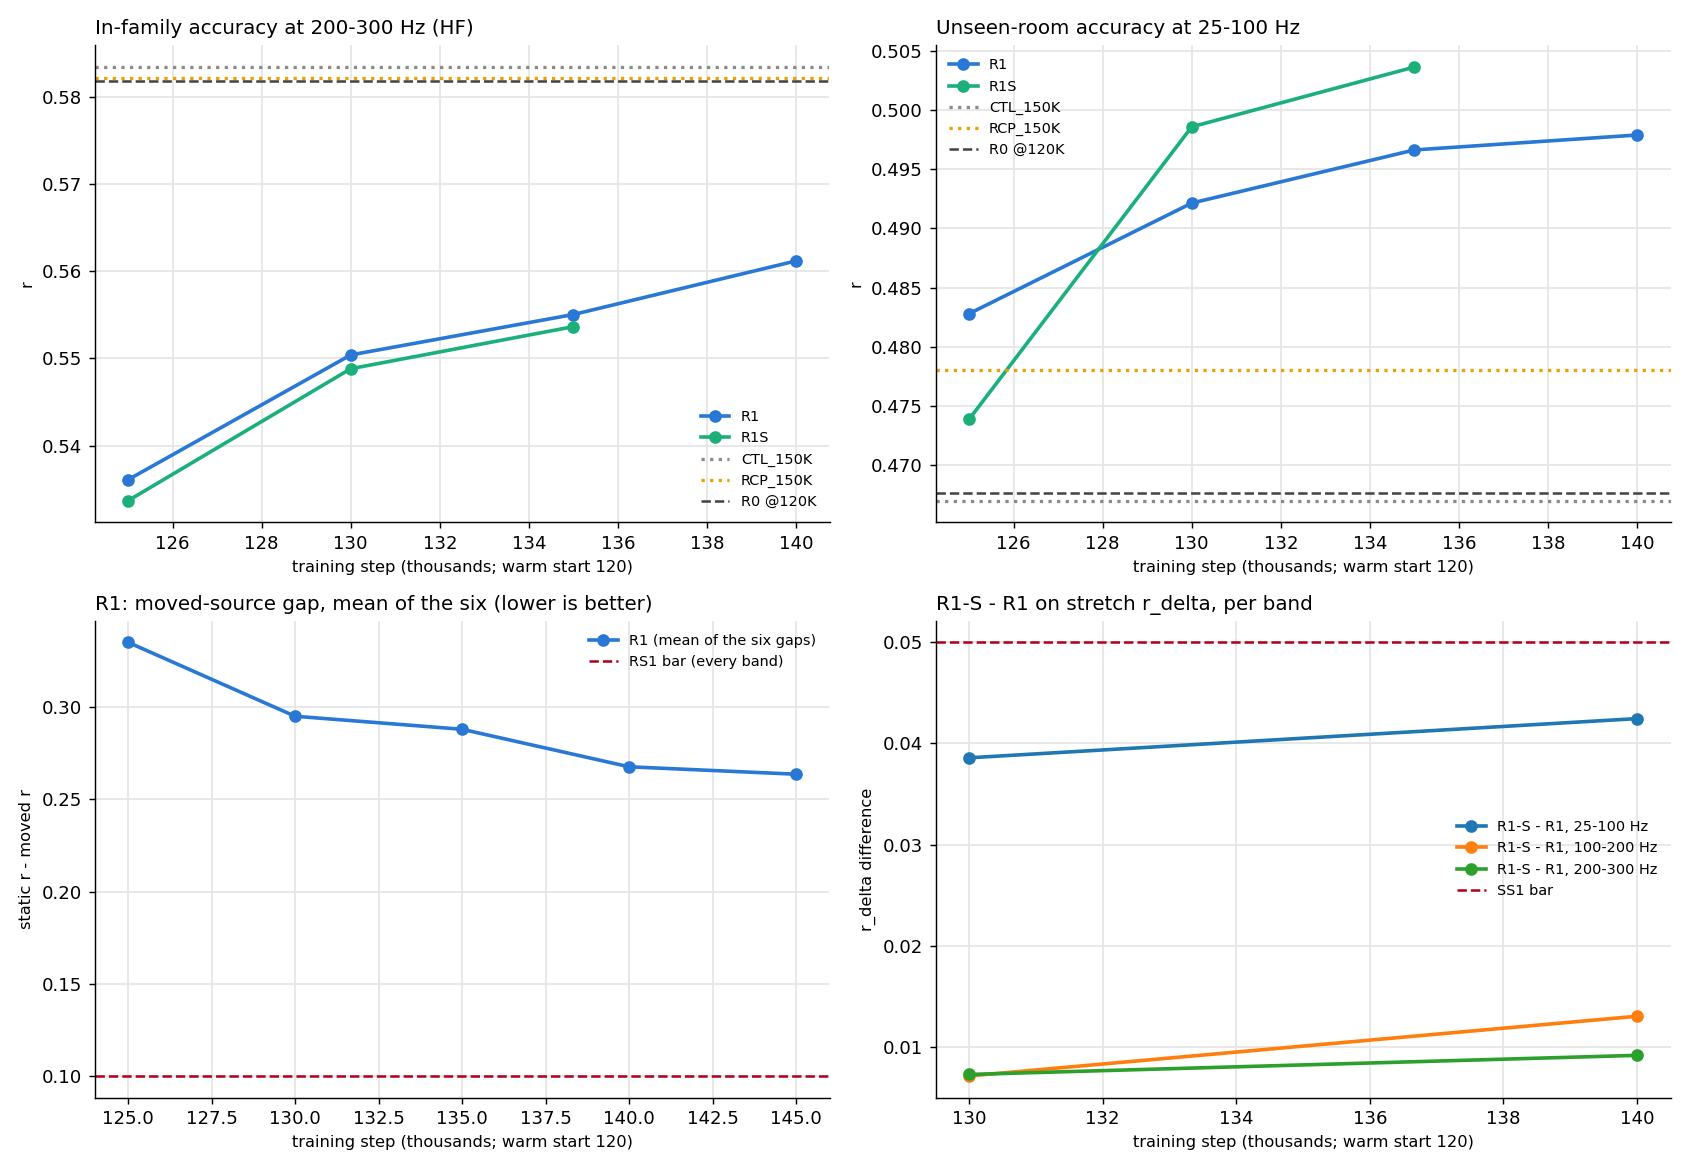
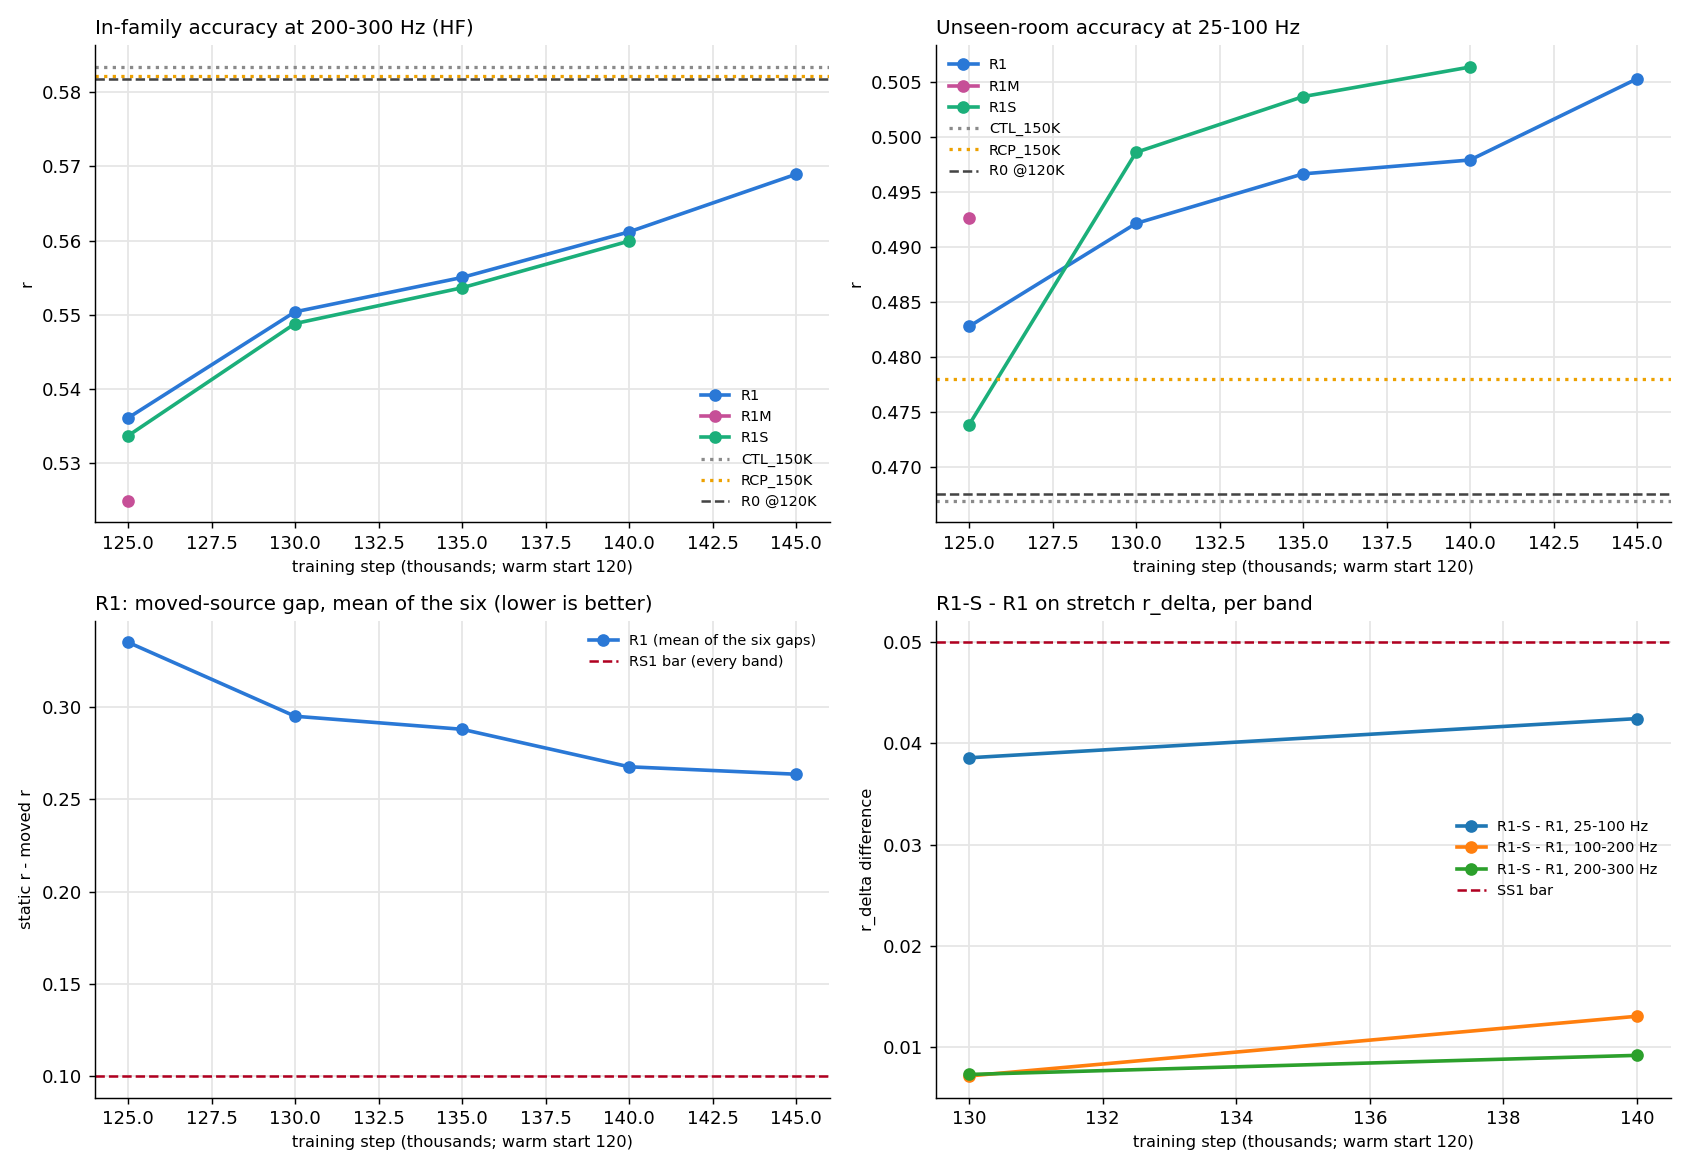
P4-10 I12: R1-M @+5K first read (EDT slope 0.36 in-family, 0.60 unseen; MM2 margin -5); R1 @+25K HF -0.015 vs CTL; R1-S @+20K static

diff --git a/tasks/P4_10_STATUS_REPORT.md b/tasks/P4_10_STATUS_REPORT.md
@@ -3,6 +3,28 @@
 **Pre-registration:** D195 (spec, verbatim; also `tasks/P4_10_SPEC.md`), D196 (progress contract), D197 (amendments A1-A14), D198 (edit manifest frozen), D199 (per-edge absorption validated). The P4-9 erratum (D194) corrects a premise the spec inherited.
 **Board:** [board.md](https://raw.githubusercontent.com/harshvardhan-takawale/adaptable-acoustic-fields/main/outputs/p4_10/progress/board.md). One dated entry per read, newest first, entry times from `date`. Raw links checked for 200.
 
+## 2026-11-23 (21:06) — I12 (R1-M +5K, first read; static reads of R1 +25K and R1-S +20K): the materials arm is the first model that answers a material change; R1's cost at the original source is now inside the no-harm limit
+
+**Headline:** R1-M, the arm trained with per-wall absorption labels, at its first checkpoint (+5K of 30K) already changes its decay time when a wall's absorption is changed: the EDT edit slope is 0.36 in known rooms and 0.60 in new ones, against about -0.1 to -0.2 for R0 and R1 (a correct model reads near 1; the bar, read at +30K, is 0.8 to 1.2). Separately, R1's accuracy at the original source in known rooms is 0.015 below the plain continuation at 200-300 Hz, inside RC1's limit of 0.020 for the first time, and it stays ahead in unseen rooms.
+
+**R1-M @125K, Material lite cells (D201 / D202; 16 in-family cells, 48 cell-bands; 16 unseen):**
+
+| set | EDT slope (Pearson) | per octave 63 / 125 / 250 Hz | T20 slope (kept receivers) | level-change slope (Pearson) | EDT error edited vs own unedited (MM2 margin) |
+|---|---|---|---|---|---|
+| in-family | 0.36 (0.59) | 0.57 / 0.74 / 0.37 | 0.81, n 17 cell-bands (142582 of 146689 receiver-bands dropped) | 0.40 (0.50) | 22.7% vs 27.9% (-5.2) |
+| unseen | 0.60 (0.68) | 0.43 / 0.53 / 0.52 | -0.19, n 18 (124793 of 129438) | 0.42 (0.54) | 27.4% vs 33.2% (-5.8) |
+| R1 @140K (reference, no material training) | -0.10 (-0.31) | -- | -- | 0.25 (0.25) | 38.4% vs 23.5% (+14.9) |
+
+- **The T20 slope is not usable here:** the floor rule drops about 97% of receiver-bands, as for the other arms; EDT is MM1.
+- **MM2:** the edited-room error is BELOW the model's own unedited error (the bar is at most +5 points above it), so the edit adds no decay error so far. The unedited level itself, 27.9%, is above R1's (25.0% at +10K) and far above the 5% to 18% JNDs.
+- **MC1 (no harm at alpha = 0.15; read at +30K):** R1-M @125K - R1 @125K: HF -0.011 [-0.020, -0.002], UF +0.010 [+0.002, +0.017] / -0.004 / -0.007. Levels: R1-M HF 0.525, UF 0.493 / 0.388 / 0.369 (R1 @125K 0.536, 0.483 / 0.393 / 0.377).
+- The learning check (slope >= 0.3) is read at +10K (130K); this +5K read is descriptive.
+
+**R1 @145K (+25K), static:** HF 0.569, UF 0.505 / 0.409 / 0.397. Against CTL @150K: HF -0.015 [-0.022, -0.007] (RC1's limit -0.02, judged at +30K), UF +0.038 / +0.034 / +0.024. Against CTL @140K (the same step count): HF -0.013 [-0.019, -0.007]. HF cost over the reads: -0.047, -0.033, -0.028, -0.022, -0.015.
+**R1-S @140K (+20K), static, against R1 @140K:** HF -0.001 [-0.005, +0.002], UF +0.008 [+0.003, +0.014] / +0.009 / +0.006; levels HF 0.560, UF 0.506 / 0.417 / 0.398.
+
+Links: [board.md](https://raw.githubusercontent.com/harshvardhan-takawale/adaptable-acoustic-fields/main/outputs/p4_10/progress/board.md) · [F2_trajectories.png](https://raw.githubusercontent.com/harshvardhan-takawale/adaptable-acoustic-fields/main/outputs/p4_10/progress/F2_trajectories.png) · [P4_10_R1M.yaml](https://raw.githubusercontent.com/harshvardhan-takawale/adaptable-acoustic-fields/main/configs/sweep_2d_mat/P4_10_R1M.yaml)
+
 ## 2026-11-23 (20:48) — I11 (R1-S +20K, all lite families, the first read matched to R1's step): stretch edits better than R1 by 0.043 / 0.013 / 0.009; the extension baseline is recorded
 
 **Headline:** At the same training step (+20K), R1-S, which also trains on stretched rooms, predicts stretch edits better than R1 in every band (pattern-of-change r_delta +0.043 / +0.013 / +0.009 at 25-100 / 100-200 / 200-300 Hz, all three intervals above zero). The bar, read at +30K, is +0.05 in at least two bands: no band reaches it yet, and the lowest band is the closest. On everything else the two models are level, and on the materials cells R1-S is slightly below R1 at 100-200 Hz.

diff --git a/outputs/p4_10/progress/board.md b/outputs/p4_10/progress/board.md
@@ -1,10 +1,10 @@
 # P4-10 progress board
 
-Built 2026-11-23 20:48 (from JSON on disk; every read is a scored checkpoint).
+Built 2026-11-23 21:06 (from JSON on disk; every read is a scored checkpoint).
 
-**Next reads (from each arm's training log):** R1: step 147800 at 0.78 s/step, next read 150000 at about 21:17 ET (posted within 1 h of it); R1M: step 127200 at 0.81 s/step, next read 130000 at about 21:26 ET (posted within 1 h of it); R1S: step 141800 at 0.82 s/step, next read 145000 at about 21:32 ET (posted within 1 h of it)
+**Next reads (from each arm's training log):** R1: step 149000 at 0.79 s/step, next read 150000 at about 21:19 ET (posted within 1 h of it); R1M: step 128400 at 0.81 s/step, next read 130000 at about 21:27 ET (posted within 1 h of it); R1S: step 143200 at 0.83 s/step, next read 145000 at about 21:30 ET (posted within 1 h of it)
 
-**Running jobs:** aaf_speckle_an x1, aaf_g2dense x1, aaf_oof x1, aaf_unseen_ev x3, aaf_sc_R1M_125K x1, aaf_backstop x1, aaf_r1 x1, aaf_r1s x1, aaf_r1m x1
+**Running jobs:** aaf_backstop x1, aaf_r1 x1, aaf_r1s x1, aaf_r1m x1
 
 ## R1 -- in-family moved-source gap, band mean, second and third source (bar: each band <= 0.10)
 
@@ -14,7 +14,7 @@ Built 2026-11-23 20:48 (from JSON on disk; every read is a scored checkpoint).
 | R1_130K | 0.550 | 0.492 / 0.398 / 0.393 | -0.033 [-0.039, -0.027] | +0.025 [+0.011, +0.040] |
 | R1_135K | 0.555 | 0.497 / 0.412 / 0.398 | -0.028 [-0.035, -0.022] | +0.030 [+0.018, +0.043] |
 | R1_140K | 0.561 | 0.498 / 0.407 / 0.393 | -0.022 [-0.029, -0.016] | +0.031 [+0.018, +0.044] |
-| R1_145K | pending | | | |
+| R1_145K | 0.569 | 0.505 / 0.409 / 0.397 | -0.014 [-0.022, -0.007] | +0.038 [+0.025, +0.051] |
 
 Moved-source gap = static r on the original room - r at the moved source (in-family lite rooms; lower is better). Bar: <= 0.10 in every band.
 
@@ -35,7 +35,14 @@ Moved-source gap = static r on the original room - r at the moved source (in-fam
 
 | read | HF (test 200-300) | UF 25-100 / 100-200 / 200-300 | delta HF vs ref [CI] | delta UF 25-100 [CI] |
 |---|---|---|---|---|
-| R1M_125K | pending | | | |
+| R1M_125K | 0.525 | 0.493 / 0.388 / 0.369 | -0.011 [-0.020, -0.002] | +0.010 [+0.002, +0.017] |
+
+MM1 (re-registered D201 / D202): EDT edit slope on Material lite cells (bar: slope in [0.8, 1.2], Pearson >= 0.8), in-family primary; MM2 margin = median |EDT error| edited - unedited, points (bar <= +5):
+
+| read | set | EDT slope | Pearson | cell-bands | T20 slope | MM2 edited / unedited | dropped |
+|---|---|---|---|---|---|---|---|
+| R1M_125K | in-family | 0.36 | 0.59 | 48 | 0.81 | 23% / 28% (-5.2) | 0 cells-bands; 142582 of 146689 rx-bands (T20 floor) |
+| R1M_125K | unseen | 0.60 | 0.68 | 48 | -0.19 | 27% / 33% (-5.8) | 0 cells-bands; 124793 of 129438 rx-bands (T20 floor) |
 
 ## R1S -- r_delta on Stretch (lite) cells, in-family, paired vs R1 at the same step (bar: +0.05, CI > 0, >= 2 of 3 bands)
 
@@ -44,7 +51,7 @@ Moved-source gap = static r on the original room - r at the moved source (in-fam
 | R1S_125K | 0.534 | 0.474 / 0.396 / 0.391 | -0.002 [-0.009, +0.005] | -0.009 [-0.016, -0.002] |
 | R1S_130K | 0.549 | 0.499 / 0.413 / 0.395 | -0.002 [-0.006, +0.002] | +0.006 [+0.001, +0.012] |
 | R1S_135K | 0.554 | 0.504 / 0.419 / 0.405 | -0.001 [-0.008, +0.005] | +0.007 [-0.001, +0.016] |
-| R1S_140K | pending | | | |
+| R1S_140K | 0.560 | 0.506 / 0.417 / 0.398 | -0.001 [-0.005, +0.002] | +0.008 [+0.003, +0.014] |
 
 Stretch r_delta (lite cells; paired vs R1 at the same step):
 
@@ -84,6 +91,7 @@ Moved-source gap = static r on the original room - r at the moved source (in-fam
 | Source | R1S_140K | 8 | 0.730 / 0.358 / 0.257 | 0.760 / 0.492 / 0.385 |
 | Source | R0_120K | 8 | 0.229 / 0.074 / 0.034 | 0.497 / 0.380 / 0.297 |
 | Material | R1_140K | 8 | 0.686 / 0.509 / 0.435 | 0.131 / 0.027 / -0.000 |
+| Material | R1M_125K | 8 | 0.874 / 0.688 / 0.614 | 0.438 / 0.160 / 0.081 |
 | Material | R1S_140K | 8 | 0.682 / 0.495 / 0.435 | 0.131 / 0.035 / 0.007 |
 | Material | R0_120K | 8 | 0.719 / 0.518 / 0.407 | 0.101 / 0.032 / 0.008 |
 
